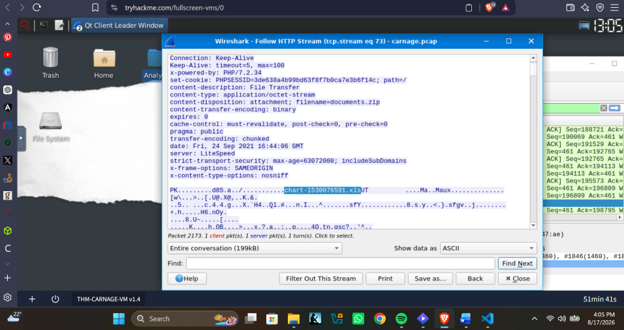
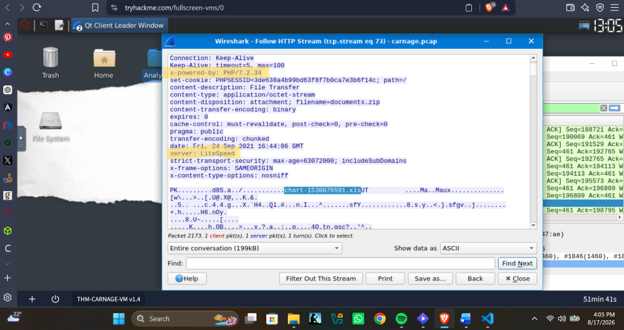
Added images

Changed region(s): [[0.2436, 0.1818, 0.4567, 0.2424], [0.2436, 0.4242, 0.3958, 0.4848]]

diff --git a/_posts/2026-08-15-lab3-setup.md b/_posts/2026-08-15-lab3-setup.md
@@ -55,6 +55,9 @@ I looked into the Hypertext Transfer Protocol section and found the URI.
 
 9. The web server hosting the malicious file was identified as **LiteSpeed**, with **PHP/7.2.34** exposed in the server information.
 
+![MD5](assets/img/server.png)
+
+
 10. Two IP addresses associated with Cobalt Strike infrastructure were identified: **`185.106.96.158`** and **`185.125.204.174`**.
 11. The domains **`survmeter.live`** and **`securitybusinpuff.com`** were identified in relation to the Cobalt Strike infrastructure.
 12. The Host header **`ocsp.verisign.com`** was observed for the first Cobalt Strike server.
